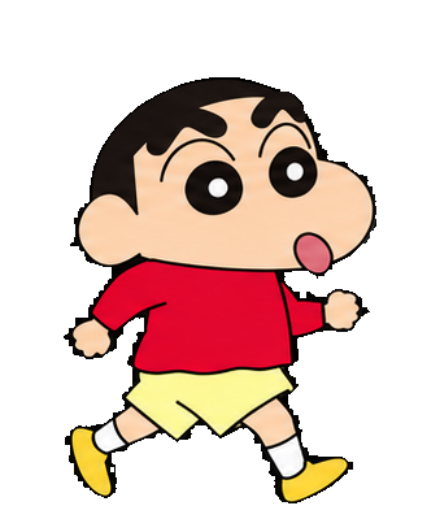
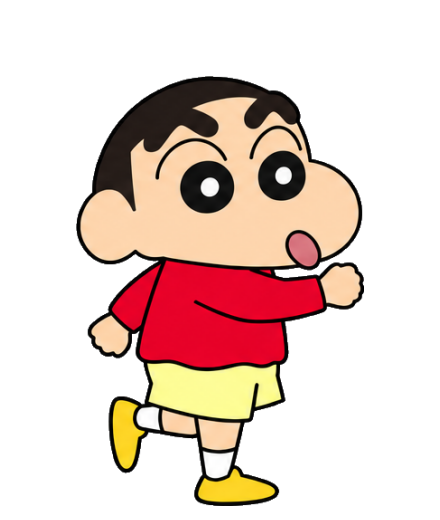
Replace walk cycle with six user frames

diff --git a/check.py b/check.py
@@ -26,17 +26,18 @@ for state, frames in w.frames.items():
     assert all(im.width() == CANVAS_WIDTH and im.height() == CANVAS_HEIGHT for im in frames)
     w.state = state; w.repaint(); app.processEvents()
 assert w.frames['Idle'][0] != w.frames['Idle'][20]
-walk_keyframes = [w.frames['Walk'][index] for index in (0, 2, 4, 6)]
-assert all(walk_keyframes[index] != walk_keyframes[(index + 1) % 4] for index in range(4))
+walk_keyframes = w.frames['Walk']
+assert len(walk_keyframes) == 6
+assert all(walk_keyframes[index] != walk_keyframes[(index + 1) % 6] for index in range(6))
 
 pose_root = Path(__file__).resolve().parent / 'assets' / 'poses'
-walk_sources = [QImage(str(pose_root / f'walk_fixed_{index}.png')) for index in range(1, 5)]
+walk_sources = [QImage(str(pose_root / f'walk_{index}.png')) for index in range(1, 7)]
 assert all(not image.isNull() and image.hasAlphaChannel() for image in walk_sources)
 walk_hashes = [
-    hashlib.sha256((pose_root / f'walk_fixed_{index}.png').read_bytes()).hexdigest()
-    for index in range(1, 5)
+    hashlib.sha256((pose_root / f'walk_{index}.png').read_bytes()).hexdigest()
+    for index in range(1, 7)
 ]
-assert len(set(walk_hashes)) == 4
+assert len(set(walk_hashes)) == 6
 for image in walk_sources:
     transparent_samples = 0
     for x, y in ((0, 0), (image.width() - 1, 0), (0, image.height() - 1), (image.width() - 1, image.height() - 1)):
@@ -56,8 +57,8 @@ def region_difference(first, second, top_ratio):
                 different += 9
     return different / total
 
-walk_leg_differences = [region_difference(walk_keyframes[index], walk_keyframes[(index + 1) % 4], 0.48)
-                        for index in range(4)]
+walk_leg_differences = [region_difference(walk_keyframes[index], walk_keyframes[(index + 1) % 6], 0.48)
+                        for index in range(6)]
 assert min(walk_leg_differences) > 0.08
 center = QPoint(w.width() // 2, w.height() // 2)
 QTest.mouseClick(w, Qt.MouseButton.LeftButton, pos=center)
@@ -129,4 +130,4 @@ for side in ('left', 'right', 'top', 'bottom'):
         assert w.y() + w.height() > area.bottom()
     w.repaint(); app.processEvents()
 w.close()
-print('PASS: 80 high-resolution transparent frames; blink; user-provided four-pose gait; hover/look; click/angry; drag; sleep/wake; resize limits; edge PNG poses; edge perch; bounds')
+print('PASS: 78 high-resolution transparent frames; blink; user-provided six-frame gait; hover/look; click/angry; drag; sleep/wake; resize limits; edge PNG poses; edge perch; bounds')

diff --git a/pet/art.py b/pet/art.py
@@ -8,14 +8,14 @@ from .paths import resource_path
 WIDTH, HEIGHT = 110, 130
 CANVAS_WIDTH, CANVAS_HEIGHT = WIDTH * 4, HEIGHT * 4
 STATES = ("Idle", "Walk", "Sleep", "Drag", "Click", "Look", "Angry")
-FRAME_COUNTS = {"Idle": 24, "Walk": 8, "Sleep": 16, "Drag": 8,
+FRAME_COUNTS = {"Idle": 24, "Walk": 6, "Sleep": 16, "Drag": 8,
                 "Click": 8, "Look": 8, "Angry": 8}
 
 
 def _load_poses():
     root = resource_path("assets", "poses")
     names = ("idle", "blink", "walk_1", "walk_2", "walk_3", "walk_4", "walk_5", "walk_6",
-             "walk_7", "walk_8", "sleep", "drag",
+             "sleep", "drag",
              "click", "look", "angry")
     poses = {}
     for name in names:

diff --git a/EDGE_INTERACTIONS.md b/EDGE_INTERACTIONS.md
@@ -2,7 +2,7 @@
 
 把桌宠拖到屏幕的某条边缘后松手，切换对应姿势；向桌面内拖出即可恢复普通动作。左侧和右侧是单手扶边探头，另一条胳膊隐藏在边缘外；底部双手扒边；顶部倒挂向下看。贴边时右键仍可调整大小或重置位置。
 
-新素材在 `assets/poses/edge_v2/`，每个方向一张 1254×1254 透明 PNG。按用户提供的走路原图校准肤色与细线风格，去掉额外腮红；倒挂图只保留额头侧的一对眉弧。原走路四帧保持原文件。
+新素材在 `assets/poses/` 的 `edge_left.png`、`edge_right.png`、`edge_top.png` 和 `edge_bottom.png`，每个方向一张透明 PNG。按用户提供的角色风格校准肤色与细线风格，去掉额外腮红；走路动作使用新的六帧素材 `walk_1.png` 到 `walk_6.png`。
 
 程序依据 `manifest.json` 中的头宽等比显示和手部接触点贴边，不再把整张图片拉伸填满窗口。默认头部宽约 65 个逻辑像素，与普通姿势接近；用户主动放大缩小时按同一倍率变化。吸附后保持当前屏幕与边缘状态，避免睡眠、经过鼠标等改变贴边画面。轻度拖过边界仍能触发；在角落按释放鼠标更靠近的边选择。
 

diff --git a/VALIDATION.md b/VALIDATION.md
@@ -1,13 +1,13 @@
 # 本机验证记录
 
-2026-09-10，Windows x64。
+2026-09-12，Windows x64。
 
 - Python 3.13.12；PySide6-Essentials / shiboken6 6.11.2。
-- pip check：无依赖冲突。
-- compileall：入口、角色、交互模块通过。
-- check.py：40 帧透明图像、置顶和透明属性、点击、拖动和释放、睡眠和唤醒、走动、屏幕边界均通过。
-- main.py --smoke-test：实际 Qt 窗口启动和退出成功，退出码 0。
-- main.py --export-assets：导出 40 张 PNG。
-- 已启动常驻桌宠进程供试用。
+- `check.py`：78 帧透明图像、六帧走路动作、置顶和透明属性、点击、拖动、睡眠、缩放和屏幕边缘互动均通过。
+- `check_edges.py`：四边贴边动作、拖出恢复、透明裁切、缩放锚点和角落选择均通过。
+- `check_reminders.py`：提醒持久化、到期提示、完成、延后、删除和提醒中心页面均通过。
+- `main.py --smoke-test`：Qt 窗口启动和退出成功，退出码 0。
+- `main.py --export-assets`：按当前帧数导出状态 PNG。
+- 重新打包后的 `release\\小新桌宠.exe --smoke-test`：退出码 0。
 
 自动交互检查已通过；未人工验证所有多显示器与缩放组合。

diff --git a/PACKAGING.md b/PACKAGING.md
@@ -14,7 +14,7 @@
 
 ## 重新打包
 
-项目目录中双击 `build_exe.bat`。脚本会使用项目的独立 Python 环境安装固定版本的 PyInstaller，并把结果写入 `release\小新桌宠.exe`。走路素材是 `assets\poses\walk_1.png` 到 `walk_8.png`，当前顺序对应用户合成图的原图帧 `1、2、3、6、7、8、5、4`。
+项目目录中双击 `build_exe.bat`。脚本会使用项目的独立 Python 环境安装固定版本的 PyInstaller，并把结果写入 `release\小新桌宠.exe`。走路素材是 `assets\poses\walk_1.png` 到 `walk_6.png`，当前顺序对应新合成图从左到右、从上到下的六个画面。
 
 打包配置位于 `desktop_pet.spec`。其中包含角色素材、边缘动作素材、图标、声音辅助脚本和 Qt 运行库。配置会排除构建机搜索路径里可能出现的第三方 ICU DLL，避免其覆盖 Windows 自带 ICU 并导致 `QtWidgets` 无法加载。
 
